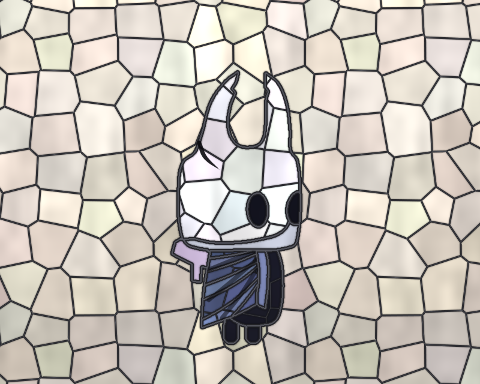
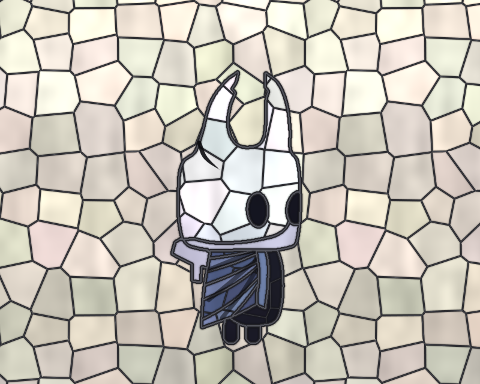
Weasel 1.37.1: vitral sem piscar e sem pedaços gêmeos (glass)
Duas correções no art glass. Os cortes do vidro não mudam; os tons
sorteados dos pedaços, sim.

- O vitral piscava nas animações: o tom de cada pedaço vinha da ordem
  em que as formas apareciam na tela, e quando uma forma passava por
  cima de outra, os pedaços das formas paradas trocavam de tom de um
  quadro para o outro (no teste, 91% da caixa parada mudava). Agora o
  sorteio vem do número da forma, o mesmo dos outros estilos com
  textura, e a forma parada fica igual em todos os quadros. Vale na
  sprite sheet, no Godot e no filme.
- Numa forma maior que o azulejo do corte, o mesmo pedaço repetido mais
  adiante era tratado como um pedaço só, com a média dos dois lugares:
  num fundo alto em degradê com size= pequeno, o céu inteiro virava uma
  cor só. Agora cada um é um pedaço com a sua cor, como no mosaico.
- Testes: as referências de estilo_glass e estilo_filme_vitral e as
  imagens do vitral no capítulo 14 foram regravadas; as outras não
  mudaram. O plano de estilos registra a correção.

diff --git a/js/art.js b/js/art.js
@@ -2731,22 +2731,26 @@
     };
   }
   // o passe das peças: cada forma (e cada traço largo) com uma cor sorteada; S.ids guarda as cores (1: um traço)
+  // (S.keys: o número de cada forma, it.key, que não muda de um quadro para o outro: o sorteio das cores vem dele, e
+  // não da ordem em que as formas aparecem na tela, que muda quando uma passa por cima da outra)
   function glassIds(S, lead) {
     let n = 0;
     S.ids = new Map();
-    const col = (line) => {
+    S.keys = new Map();
+    const col = (line, key) => {
       const v = (Math.imul(++n, 2654435761) >>> 8) & 0xffffff;
       S.ids.set(v, line);
+      S.keys.set(v, key | 0);
       return `rgb(${v >> 16},${(v >> 8) & 255},${v & 255})`;
     };
     return {
       glow: false,
-      fill(ctx, it) { ctx.fillStyle = col(0); ctx.fill(it.path); },
+      fill(ctx, it) { ctx.fillStyle = col(0, it.key); ctx.fill(it.path); },
       ink() {},
       line(ctx, it) {
         if (glassSlim(it, lead)) return true;
         ctx.save();
-        ctx.fillStyle = ctx.strokeStyle = col(1);
+        ctx.fillStyle = ctx.strokeStyle = col(1, it.key);
         it.body(ctx);
         ctx.restore();
         return true;
@@ -2803,14 +2807,15 @@
     src.content(IX.ctx, m, { unlit: true, stroke: glassIds(S, lead) });
     IX.ctx.restore();
     const { P, own } = piecesOf(IX.ctx.getImageData(0, 0, Wd, Hd).data, S.ids, Wd, Hd);
-    // cada peça num número pequeno (slot; 0 é o fundo) e a caixa dela
-    const slot = new Int32Array(N), bx = [Infinity], by = [Infinity], ex = [-Infinity], ey = [-Infinity], isLine = [0], of = new Map();
+    // cada peça num número pequeno (slot; 0 é o fundo), a caixa dela e o número da forma (fk: para o sorteio; o slot
+    // muda de um quadro para o outro, o fk não)
+    const slot = new Int32Array(N), bx = [Infinity], by = [Infinity], ex = [-Infinity], ey = [-Infinity], isLine = [0], fk = [0], of = new Map();
     for (let y = 0, i = 0; y < Hd; y++) {
       for (let x = 0; x < Wd; x++, i++) {
         const p = P[i];
         if (p < 0) { slot[i] = 0; continue; }
         let s = of.get(p);
-        if (s === undefined) { s = bx.length; of.set(p, s); bx.push(Infinity); by.push(Infinity); ex.push(-Infinity); ey.push(-Infinity); isLine.push(S.ids.get(p)); }
+        if (s === undefined) { s = bx.length; of.set(p, s); bx.push(Infinity); by.push(Infinity); ex.push(-Infinity); ey.push(-Infinity); isLine.push(S.ids.get(p)); fk.push(S.keys.get(p)); }
         slot[i] = s;
         if (x < bx[s]) bx[s] = x;
         if (x > ex[s]) ex[s] = x;
@@ -2837,37 +2842,41 @@
     chamfer(Dt, Wd, Hd);
     // o pedaço de cada ponto (o vidro do fundo, sem bg no canvas, fica de fora: é o papel)
     const T = glassTile(k, sz), tx = shapeTex(g, src, m, art, info, T, null), off = texOff(art, info), V = [0, 0, 0];
-    const bare = !!info.bare, key = new Int32Array(N), mot = new Uint8Array(N), ed = new Float32Array(N);
-    const idx = new Map(), sum = [], cnt = [], all = [];
-    let lastK = -1, lastI = -1;
+    const bare = !!info.bare, pk = new Int32Array(N).fill(-1), mot = new Uint8Array(N), ed = new Float32Array(N), seed = new Int32Array(N), sd0 = art.seed | 0;
     for (let py = 0, o = 0, i = 0; py < Hd; py++) {
       for (let px = 0; px < Wd; px++, o += 4, i++) {
         const s = slot[i];
-        if (!c[o + 3] || (s === 0 && bare)) { key[i] = -1; continue; }
+        if (!c[o + 3] || (s === 0 && bare)) continue;
         tileAt(V, T, tx, o, px, py, k, off);
-        const cut = !whole[s] && !bead[s];
-        const kk = s * 256 + (cut ? Math.round((V[0] * 255) / 4) : 255);
+        const cut = !whole[s] && !bead[s], tid = cut ? Math.round((V[0] * 255) / 4) : 255;
+        pk[i] = s * 256 + tid;
         mot[i] = Math.round(V[1] * 255);
         ed[i] = cut ? ((V[2] * 255) / GD) * k : 1e9;
-        let q = kk === lastK ? lastI : idx.get(kk);
-        if (q === undefined) { q = sum.length / 3; idx.set(kk, q); sum.push(0, 0, 0); all.push(0, 0, 0); cnt.push(0, 0); }
-        lastK = kk;
-        lastI = q;
-        key[i] = q;
-        all[q * 3] += c[o]; all[q * 3 + 1] += c[o + 1]; all[q * 3 + 2] += c[o + 2]; cnt[q * 2 + 1]++;
-        if (own[i] || s === 0) { sum[q * 3] += c[o]; sum[q * 3 + 1] += c[o + 1]; sum[q * 3 + 2] += c[o + 2]; cnt[q * 2]++; }
+        seed[i] = Math.imul(fk[s] + 1, 2654435761) ^ Math.imul(tid + 1, 40503) ^ Math.imul(sd0 + 1, 7919);
       }
     }
+    // cada pedaço é um pedaço inteiro da tela: o mesmo pedaço do azulejo, repetido mais adiante numa forma grande,
+    // é outro pedaço, com a sua cor
+    const { L: key, n: nq } = regions(pk, Wd, Hd);
+    const sum = new Float64Array(nq * 3), all = new Float64Array(nq * 3), cnt = new Int32Array(nq * 2), sd = new Int32Array(nq), rs = new Int32Array(nq);
+    for (let i = 0, o = 0; i < N; i++, o += 4) {
+      const q = key[i];
+      if (q < 0) continue;
+      all[q * 3] += c[o]; all[q * 3 + 1] += c[o + 1]; all[q * 3 + 2] += c[o + 2]; cnt[q * 2 + 1]++;
+      if (own[i] || slot[i] === 0) { sum[q * 3] += c[o]; sum[q * 3 + 1] += c[o + 1]; sum[q * 3 + 2] += c[o + 2]; cnt[q * 2]++; }
+      sd[q] = seed[i];
+      rs[q] = slot[i];
+    }
     // a cor de cada pedaço: a média, mais forte, e um pouco diferente da do vizinho
-    const nq = cnt.length / 2, col = new Float32Array(nq * 3);
-    for (const [kk, q] of idx) {
-      const n0 = cnt[q * 2], A = n0 ? sum : all, n = n0 || cnt[q * 2 + 1];
+    const col = new Float32Array(nq * 3);
+    for (let q = 0; q < nq; q++) {
+      const n0 = cnt[q * 2], A = n0 ? sum : all, n = n0 || cnt[q * 2 + 1] || 1;
       let r = A[q * 3] / n, gg = A[q * 3 + 1] / n, b = A[q * 3 + 2] / n;
-      const l = 0.3 * r + 0.59 * gg + 0.11 * b, f = 0.92 + 0.16 * rnd(kk, 5 + (art.seed | 0));
-      r = (l + (r - l) * 1.35) * f * (0.97 + 0.06 * rnd(kk, 6));
-      gg = (l + (gg - l) * 1.35) * f * (0.97 + 0.06 * rnd(kk, 7));
-      b = (l + (b - l) * 1.35) * f * (0.97 + 0.06 * rnd(kk, 8));
-      if (bead[kk >> 8]) { r *= 1.12; gg *= 1.12; b *= 1.12; }
+      const l = 0.3 * r + 0.59 * gg + 0.11 * b, f = 0.92 + 0.16 * rnd(sd[q], 5);
+      r = (l + (r - l) * 1.35) * f * (0.97 + 0.06 * rnd(sd[q], 6));
+      gg = (l + (gg - l) * 1.35) * f * (0.97 + 0.06 * rnd(sd[q], 7));
+      b = (l + (b - l) * 1.35) * f * (0.97 + 0.06 * rnd(sd[q], 8));
+      if (bead[rs[q]]) { r *= 1.12; gg *= 1.12; b *= 1.12; }
       col[q * 3] = r; col[q * 3 + 1] = gg; col[q * 3 + 2] = b;
     }
     const hw = (lead * k) / 2, ht = (lead * k) / 4, fw = art.frame ? 2.2 * lead * k : 0, soft = 1.5 * U * k;

diff --git a/index.html b/index.html
@@ -6,7 +6,7 @@
 <title>Weasel — desenho por código</title>
 <link rel="icon" type="image/svg+xml" href="docs/logo.svg">
 <link rel="icon" type="image/png" sizes="64x64" href="docs/icone.png">
-<link rel="stylesheet" href="css/style.css?v=1.37.0">
+<link rel="stylesheet" href="css/style.css?v=1.37.1">
 </head>
 <body>
 <header class="top">
@@ -354,24 +354,24 @@ at 3s heroi.pos=1400,900 camera.pos=1300,540 ease=out</pre>
   </div>
 </dialog>
 
-<script src="js/geom.js?v=1.37.0"></script>
-<script src="js/lang.js?v=1.37.0"></script>
-<script src="js/art.js?v=1.37.0"></script>
-<script src="js/scene.js?v=1.37.0"></script>
-<script src="js/film.js?v=1.37.0"></script>
-<script src="js/audio.js?v=1.37.0"></script>
-<script src="js/nle.js?v=1.37.0"></script>
-<script src="js/webm.js?v=1.37.0"></script>
-<script src="js/svg.js?v=1.37.0"></script>
-<script src="js/gif.js?v=1.37.0"></script>
-<script src="js/zip.js?v=1.37.0"></script>
-<script src="js/normal.js?v=1.37.0"></script>
-<script src="js/export.js?v=1.37.0"></script>
-<script src="js/godot.js?v=1.37.0"></script>
-<script src="js/rig.js?v=1.37.0"></script>
-<script src="js/editor.js?v=1.37.0"></script>
-<script src="js/examples.js?v=1.37.0"></script>
-<script src="js/timeline.js?v=1.37.0"></script>
-<script src="js/app.js?v=1.37.0"></script>
+<script src="js/geom.js?v=1.37.1"></script>
+<script src="js/lang.js?v=1.37.1"></script>
+<script src="js/art.js?v=1.37.1"></script>
+<script src="js/scene.js?v=1.37.1"></script>
+<script src="js/film.js?v=1.37.1"></script>
+<script src="js/audio.js?v=1.37.1"></script>
+<script src="js/nle.js?v=1.37.1"></script>
+<script src="js/webm.js?v=1.37.1"></script>
+<script src="js/svg.js?v=1.37.1"></script>
+<script src="js/gif.js?v=1.37.1"></script>
+<script src="js/zip.js?v=1.37.1"></script>
+<script src="js/normal.js?v=1.37.1"></script>
+<script src="js/export.js?v=1.37.1"></script>
+<script src="js/godot.js?v=1.37.1"></script>
+<script src="js/rig.js?v=1.37.1"></script>
+<script src="js/editor.js?v=1.37.1"></script>
+<script src="js/examples.js?v=1.37.1"></script>
+<script src="js/timeline.js?v=1.37.1"></script>
+<script src="js/app.js?v=1.37.1"></script>
 </body>
 </html>

diff --git a/docs/planos/estilos.md b/docs/planos/estilos.md
@@ -230,6 +230,7 @@ O que está no [capítulo 14 do guia](../guia/14-estilos.md#vitral-e-bordado-art
 - **`embroidery`, o contorno e os traços:** o pesponto segue o contorno em pontos de 2,6 unidades, com um vão e um tremido pequenos. Cada ponto (também os do ponto haste) é uma linha em três passadas: a sombra, a cor e um brilho do lado da luz. Os traços com menos de 6 unidades viram ponto haste; os outros, ponto cheio atravessado. O `dash=` deixa os vãos sem ponto.
 - **Mais rápido em todos os estilos com textura:** o `texFill` (o passe `tex`) agora faz o padrão de cada azulejo uma vez só, e não a cada forma. No vitral do cenário, o quadro foi de 540 para 180 ms. As referências dos testes não mudaram.
 - **Tempo** (escala 1): no Cavaleiro, uns 50 a 80 ms no `glass` e 45 no `embroidery`; na noite, uns 180 ms no `glass` e de 160 a 250 no `embroidery`; no cenário, uns 180 ms nos dois.
+- **Corrigido na 1.37.1, `glass`:** (1) o tom sorteado de cada pedaço vinha da ordem em que as formas apareciam na tela; quando uma forma passava por cima de outra, os pedaços das formas paradas trocavam de tom de um quadro para o outro (o vitral piscava). Agora o sorteio vem do número da forma (o mesmo dos outros estilos com textura), que não muda. (2) Numa forma maior que o azulejo, o mesmo pedaço do azulejo, repetido mais adiante, era tratado como um pedaço só, com a média dos dois lugares: num fundo alto em degradê com `size=` pequeno, o céu inteiro virava uma cor só. Agora cada um é um pedaço, com a sua cor (como no mosaico). Os cortes não mudaram; os tons dos pedaços, sim.
 
 ## Como o ponto-cruz, o mosaico, o tricô e os efeitos de tela ficaram (1.37.0)
 
